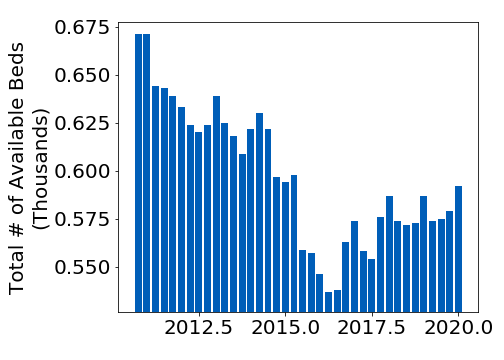
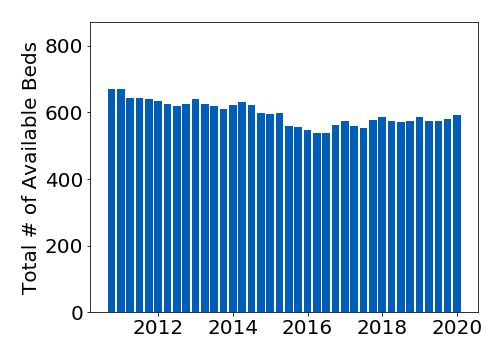
Added bed tab for Mid Essex

Changed region(s): [[0.0, 0.0306, 0.9821, 0.9472]]

diff --git a/hospitals/mid_and_south_essex_nhs_foundation_trust.html b/hospitals/mid_and_south_essex_nhs_foundation_trust.html
@@ -23,12 +23,12 @@
 </div>
             <div class = "box">
             
-<h2 class = "subtitle"><center>Basildon And Thurrock University Hospitals NHS Foundation Trust</center></h2>
+<h2 class = "subtitle"><center>Mid And South Essex NHS Foundation Trust</center></h2>
 <div class="tab"><button class="tablinks" onclick="openCity(event, 'AnE')" id="defaultOpen">A&E Waiting Times</button><button class="tablinks" onclick="openCity(event, 'beds')" id="defaultOpen">Number of Beds</button></div><div id="AnE" class="tabcontent">
-            <p>After nearly a decade of Conservative rule, on average, <b>1180</b> more people are being left to wait over 
+            <p>After nearly a decade of Conservative rule, on average, <b>292</b> more people are being left to wait over 
             four hours at A&E at <b>your</b> hospital than back in 2010.</p>
 
-            <center><img src="../figures/basildon_and_thurrock_university_hospitals_nhs_foundation_trust.png" alt="Basildon And Thurrock University Hospitals NHS Foundation Trust"></center>
+            <center><img src="../figures/mid_and_south_essex_nhs_foundation_trust.png" alt="Mid And South Essex NHS Foundation Trust"></center>
 
             <p>And things are bad for the rest of England too. Each month over <b>400,000</b> more people are made to wait
             <b>over four hours</b> to be seen at A&E than in 2011.
@@ -44,14 +44,11 @@
             
             </div>
 <div id="beds" class="tabcontent">
-            <p> Basildon And Thurrock University Hospitals NHS Foundation Trust is one of the lucky 25% of NHS England trusts which, under Conservative leadership, has more beds than in 2010. With an increase of around 72 beds.<p>
+            <p> For better or for worse, the number of beds owned by Mid And South Essex NHS Foundation Trust hasn't changed much. Under Conservative leadership, the trust has 21 fewer beds than in 2010.<p>
 
-            <center><img src="../figures/basildon_and_thurrock_university_hospitals_nhs_foundation_trust_beds.png" alt="Basildon And Thurrock University Hospitals NHS Foundation Trust"></center>
+            <center><img src="../figures/mid_and_south_essex_nhs_foundation_trust_beds.png" alt="Mid And South Essex NHS Foundation Trust"></center>
             
-            <p>Unfortunatly, similar things are being seen accross the country. 
-            Overall, there are 26,000 fewer NHS beds in England than in 2010. 
-            That's a decrease of over 20%. See our 
-            <a href = "england.html"> summary page for the whole of England</a>.</p>
+            <p>Unfortunatly, this isn't the case for many NHS trusts accross the country. Overall, there are 15,500 fewer NHS beds in England than in 2010. That's a decrease of over 10%.</p>
             
             <p>Over 48% of NHS trusts have fewer beds,  whereas little more than 10%
             of trusts have significantly more. See our <a href = "england.html"> summary page for the whole of England</a>.</p>

diff --git a/hospitals/barts_health_nhs_trust.html b/hospitals/barts_health_nhs_trust.html
@@ -24,7 +24,7 @@
             <div class = "box">
             
 <h2 class = "subtitle"><center>Barts Health NHS Trust</center></h2>
-<div class="tab"><button class="tablinks" onclick="openCity(event, 'AnE')" id="defaultOpen">A&E Waiting Times</button></div><div id="AnE" class="tabcontent">
+<div class="tab"><button class="tablinks" onclick="openCity(event, 'AnE')" id="defaultOpen">A&E Waiting Times</button><button class="tablinks" onclick="openCity(event, 'beds')" id="defaultOpen">Number of Beds</button></div><div id="AnE" class="tabcontent">
             <p> 
             The data show's that, for this trust, on average 201 fewer people 
             are waiting over four hours to be seen at A&E than in 2012.
@@ -48,6 +48,25 @@
             
 
             </div>
+<div id="beds" class="tabcontent">
+            <p> For better or for worse, the number of beds owned by Barts Health NHS Trust hasn't changed much. Under Conservative leadership, the trust has 81.4065934065934 fewer beds than in 2012.<p>
+
+            <center><img src="../figures/barts_health_nhs_trust_beds.png" alt="Barts Health NHS Trust"></center>
+            
+            <p>Unfortunatly, this isn't the case for many NHS trusts accross the country. Overall, there are 15,500 fewer NHS beds in England than in 2010. That's a decrease of over 10%.</p>
+            
+            <p>Over 48% of NHS trusts have fewer beds,  whereas little more than 10%
+            of trusts have significantly more. See our <a href = "england.html"> summary page for the whole of England</a>.</p>
+            
+            <p>Now, Brexit and an impending trade deal with Trump's US threatens to increase the NHS drug bill from &pound18 billion to as much as <b>&pound45 billion</b> a year while shutting out the nurses, carers and other workers that the health service depends on.</p>
+
+            <p><i>Note: Over the past few months A&E attendance across England has fallen by more than 50% as people choose to stay at home to help reduce the pressure on the NHS 
+            during the current pandemic.</i></p>
+            
+            <a href="..\whatnext.html" style = "text-decoration: none;"><div class="action">Call to Action</div></a>
+            
+            
+           </div>
 </div>
 
 </body>

diff --git a/index.html b/index.html
@@ -42,6 +42,7 @@ How is your local NHS Trust doing?</p>
 <li><a href="hospitals/hertfordshire_community_nhs_trust.html">Hertfordshire Community NHS Trust</a></li>
 <li><a href="hospitals/herts_urgent_care_(ascots_lane).html">Herts Urgent Care (Ascots Lane)</a></li>
 <li><a href="hospitals/james_paget_university_hospitals_nhs_foundation_trust.html">James Paget University Hospitals NHS Foundation Trust</a></li>
+<li><a href="hospitals/mid_and_south_essex_nhs_foundation_trust.html">Mid And South Essex NHS Foundation Trust</a></li>
 <li><a href="hospitals/milton_keynes_university_hospital_nhs_foundation_trust.html">Milton Keynes University Hospital NHS Foundation Trust</a></li>
 <li><a href="hospitals/norfolk_and_norwich_university_hospitals_nhs_foundation_trust.html">Norfolk And Norwich University Hospitals NHS Foundation Trust</a></li>
 <li><a href="hospitals/north_west_anglia_nhs_foundation_trust.html">North West Anglia NHS Foundation Trust</a></li>
@@ -235,9 +236,6 @@ How is your local NHS Trust doing?</p>
 <li><a href="hospitals/university_hospitals_plymouth_nhs_trust.html">University Hospitals Plymouth NHS Trust</a></li>
 <li><a href="hospitals/wiltshire_health_&_care.html">Wiltshire Health & Care</a></li>
 <li><a href="hospitals/yeovil_district_hospital_nhs_foundation_trust.html">Yeovil District Hospital NHS Foundation Trust</a></li>
-<li><a href="hospitals/basildon_and_thurrock_university_hospitals_nhs_foundation_trust.html">Basildon And Thurrock University Hospitals NHS Foundation Trust</a></li>
-<li><a href="hospitals/mid_essex_hospital_services_nhs_trust.html">Mid Essex Hospital Services NHS Trust</a></li>
-<li><a href="hospitals/southend_university_hospital_nhs_foundation_trust.html">Southend University Hospital NHS Foundation Trust</a></li>
 <li><a href="hospitals/west_london_nhs_trust.html">West London NHS Trust</a></li>
 <li><a href="hospitals/great_ormond_street_hospital_for_children_nhs_foundation_trust.html">Great Ormond Street Hospital For Children NHS Foundation Trust</a></li>
 <li><a href="hospitals/the_royal_marsden_nhs_foundation_trust.html">The Royal Marsden NHS Foundation Trust</a></li>

diff --git a/build_website.py b/build_website.py
@@ -81,7 +81,12 @@ def make_label(name):
     #print(np.asarray(words) == "Hospital")
     
     mask = (words == "Hospital") | (words == "Hospitals") | \
-        (words == "University")
+        (words == "University") | (words == "NHS")
+        
+    # make sure that one of these final words is in the name 
+    assert sum(mask) > 0, \
+        "Error: \'final\' label word not found for {}".format(name)
+        
     final_word = np.where(mask)[0][0]
         
     words = words[0:final_word]
@@ -94,10 +99,10 @@ mergered_trusts = {
         ['Bedford Hospital NHS Trust',
          'Luton And Dunstable University Hospital NHS Foundation Trust'],
         
-    # "Mid and South Essex NHS Foundation Trust" : \
-    #     ["Basildon and Thurrock University Hospitals NHS Foundation Trust",
-    #      "Mid Essex Hospital Services NHS Trust",
-    #      "Southend University Hospital NHS Foundation Trust"]
+    "Mid And South Essex NHS Foundation Trust" : \
+        ["Basildon And Thurrock University Hospitals NHS Foundation Trust",
+          "Mid Essex Hospital Services NHS Trust",
+          "Southend University Hospital NHS Foundation Trust"]
 }
 
 def combineAnEData(allData, allNames, merged_trust):
@@ -111,6 +116,8 @@ def combineAnEData(allData, allNames, merged_trust):
     newTrustData = allData[allNames == merged_trust][0]
     
     newTrustMask = np.asarray(newTrustData != "-")
+    
+    totalData[newTrustMask] = newTrustData[newTrustMask]
     
     # Add all data together and make mask for dates at while all trusts
     # provided data.
@@ -165,7 +172,7 @@ def plotMergedWaitingData(name, NHSdata):
     
     fig = plt.figure(figsize=(7,5))
     ax = fig.add_subplot(111)
-    yrange = [0,100]; xrange = [2020,2020]
+    yrange = [0,100]; xrange = [2020,2021]
     
     # plot main data
     i = np.where(allNames == name)[0][0]
@@ -269,7 +276,7 @@ def plotWaitingData(data):
     
     
 def plotMergedBedData(newName, NHSdata):
-    barColours = ["#003d99", "#005EB8", "#80b3ff"]
+    barColours = ["#004684", "#006BC8", "#39A1FC", "#71BCFE"]
      
     allNames, dates, beds = NHSdata
 
@@ -304,9 +311,10 @@ def plotMergedBedData(newName, NHSdata):
             oldDataTotal[oldDataMask] += oldData[oldDataMask]
             
     ax.set_ylabel("Total # of Available Beds")
-    ax.set_ylim(0, 1.3  *max(max(oldDataTotal[oldDataMask]), 
-                           max(mainData[mainMask])))
-    ax.legend(prop={"size":14},frameon=False, framealpha = 0)
+    ax.set_ylim(0, (1.2 + \
+        len(mergered_trusts[newName])/10)*max(max(oldDataTotal[oldDataMask]), 
+                                              max(mainData[mainMask])))
+    ax.legend(prop={"size":14},frameon=False, framealpha = 0, loc=2)
     fig.tight_layout()
     
     return fig  
@@ -660,7 +668,7 @@ def whichChunks(name, ane_names, bed_names, all_attendence, all_beds):
                 bed_points = len(beds[beds != "-"])
                 if bed_points >= 4:
                     bed_block = True
-                    #print("merged bed block added")
+                    #print("merged bed block added: {}".format(name))
             
     return ane_block, bed_block
     
